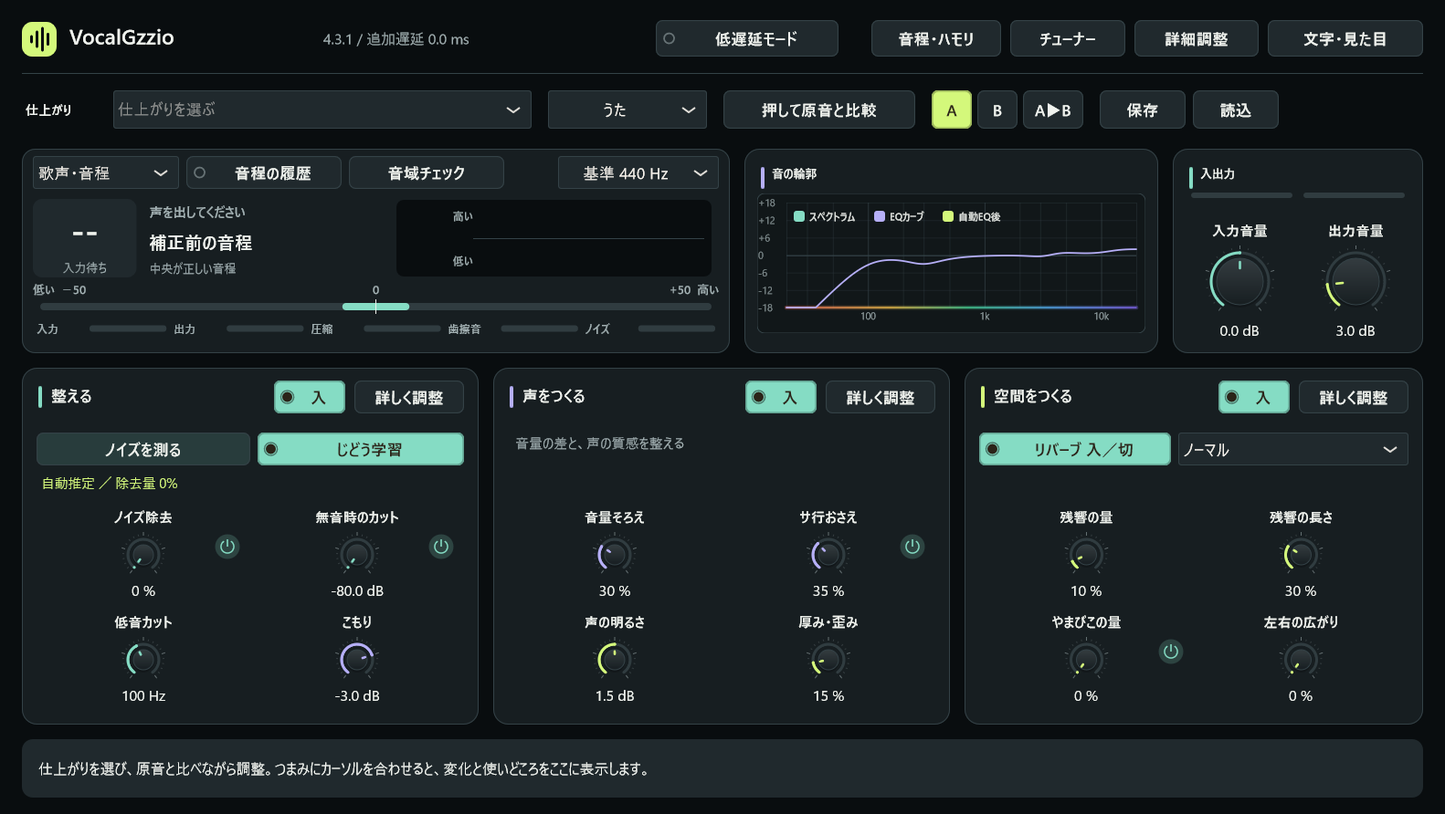
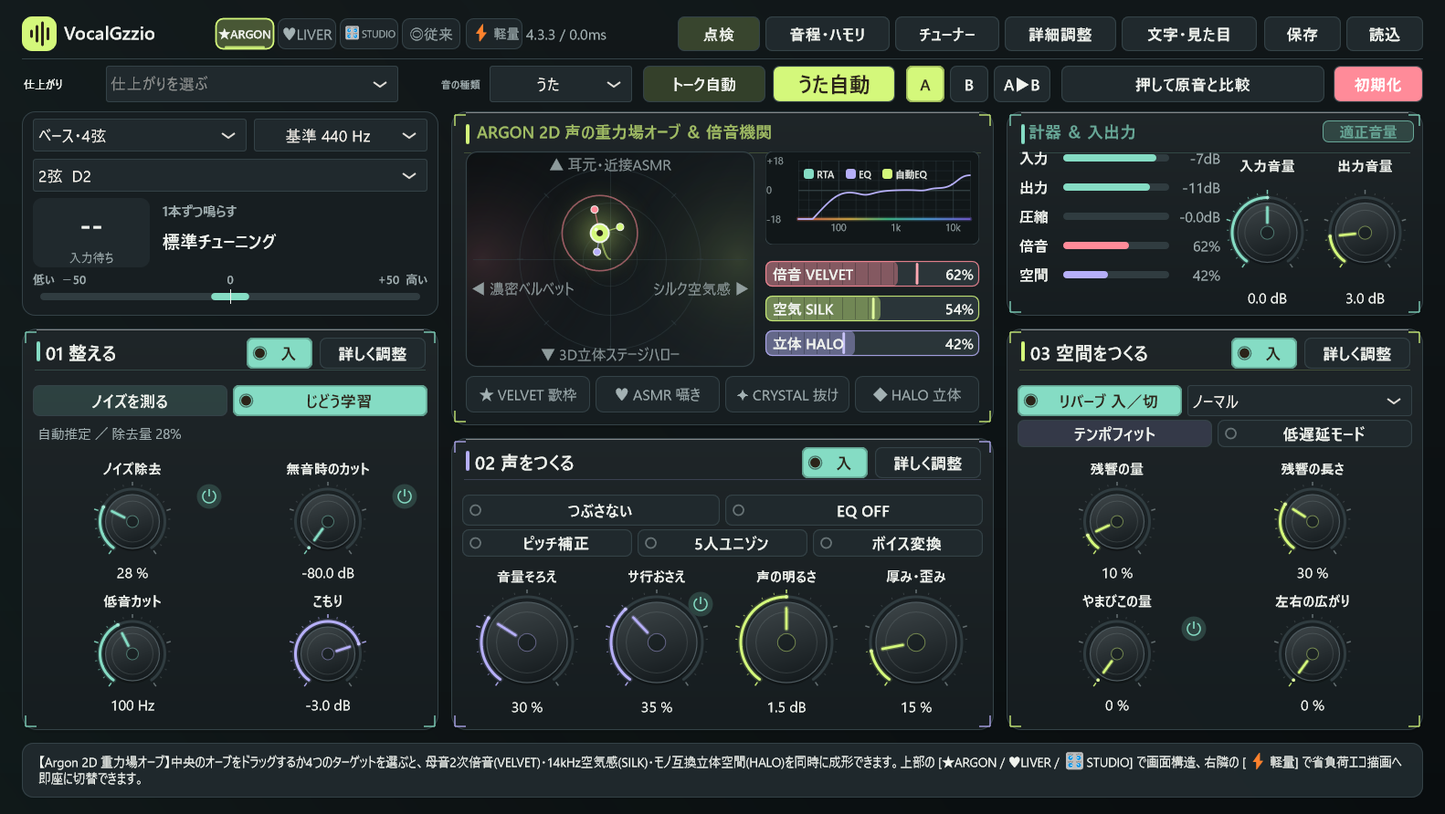
Update VocalGzzio site & manual to v4.4.0 (Gemini4Argon Edition)

diff --git a/apps/vocalgzzio/manual.html b/apps/vocalgzzio/manual.html
@@ -1,13 +1,14 @@
-<!doctype html><html lang="ja"><head><meta charset="utf-8"><meta name="viewport" content="width=device-width,initial-scale=1"><title>VocalGzzio 4.3.1 説明書</title><link rel="stylesheet" href="style.css"></head><body><header><nav><strong>VocalGzzio 4.3.1</strong><a href="https://gzzio1989.github.io/apps/vocalgzzio/">紹介</a><a href="https://gzzio.booth.pm/items/8764003">配布ページ</a></nav></header><main>
-<aside class="note" aria-label="配布状況"><strong>修正版4.3.1の説明書です。</strong><br>Windows版とMac版は同じ製品の購入に含まれ、購入済みの方も両方利用できます。最新の配布ファイル・動作確認状況・価格は<a href="https://gzzio.booth.pm/items/8764003">商品ページ</a>をご確認ください。</aside>
-<h1>音を聴きながら、<br>ひとつずつ決める。</h1><p class="lead">まずは総合画面で仕上がりを選び、必要なところだけ調整します。</p>
-<nav aria-label="目次"><a href="#start">はじめる</a><a href="#noise">ノイズ</a><a href="#pitch">音程</a><a href="#space">残響</a><a href="#install">導入</a></nav>
-<h2 id="start">はじめの調整</h2><ol><li>単体起動では音声機器と入力を選びます。プラグインでは、録音ソフトの音声トラックへ挿します。</li><li>「うた」「アコギだけ」「しゃべり」「声とギター」から入力に合うものを選びます。ギターの音と声が１本のマイクに入る場合は「声とギター」です。</li><li>いちばん強く歌う・弾くところで入力が歪まないよう、音声機器の入力ゲインと画面の入力音量を調整します。録音時点の歪みは後から元に戻せません。</li><li>「仕上がり」から目的の近いものを選びます。選択すると音色・音量の整え方・空間の値が変わります。入力・出力音量、ノイズ学習、音程設定は保持します。</li><li>「押して原音と比較」を押したまま、処理前の音を聴きます。離すと設定した音に戻ります。大きい方を良い音と感じやすいので、輪郭・強弱・余韻も聴き比べます。</li></ol>
+<!doctype html><html lang="ja"><head><meta charset="utf-8"><meta name="viewport" content="width=device-width,initial-scale=1"><title>VocalGzzio 4.4.0 説明書</title><link rel="stylesheet" href="style.css"></head><body><header><nav><strong>VocalGzzio 4.4.0</strong><a href="https://gzzio1989.github.io/apps/vocalgzzio/">紹介</a><a href="https://gzzio.booth.pm/items/8764003">配布ページ</a></nav></header><main>
+<aside class="note" aria-label="配布状況"><strong>最新版 4.4.0（Gemini4Argon Edition）の説明書です。</strong><br>Windows版とMac版は同じ製品の購入に含まれ、購入済みの方も両方利用できます。最新の配布ファイル・動作確認状況・価格は<a href="https://gzzio.booth.pm/items/8764003">商品ページ</a>をご確認ください。</aside>
+<h1>音を聴きながら、<br>ひとつずつ決める。</h1><p class="lead">まずは総合画面で仕上がりや2D声質重力場オーブを触り、必要なところだけ調整します。</p>
+<nav aria-label="目次"><a href="#start">はじめる</a><a href="#argon">2Dオーブと4種の画面構造</a><a href="#noise">ノイズ</a><a href="#pitch">音程</a><a href="#space">残響</a><a href="#install">導入</a></nav>
+<h2 id="start">はじめの調整</h2><ol><li>単体起動では音声機器と入力を選びます。プラグインでは、録音ソフトの音声トラックへ挿します。</li><li>「うた」「アコギだけ」「しゃべり」「声とギター」から入力に合うものを選びます。ギターの音と声が１本のマイクに入る場合は「声とギター」です。</li><li>いちばん強く歌う・弾くところで入力が歪まないよう、音声機器の入力ゲインと画面の入力音量を調整します。録音時点の歪みは後から元に戻せません。</li><li>「仕上がり」から目的の近いものを選ぶか、中央の「Argon 2D 声の重力場オーブ」と4つのワンタッチターゲット（★歌枠・♥ASMR・✦ポップス・◆バラード）から出発します。入力・出力音量、ノイズ学習、音程設定は保持します。</li><li>「押して原音と比較」を押したまま、処理前の音を聴きます。離すと設定した音に戻ります。大きい方を良い音と感じやすいので、輪郭・強弱・余韻も聴き比べます。</li></ol>
+<h2 id="argon">Argon 2D 重力場オーブと4種の画面構造・軽量モード（4.4.0 新機能）</h2><p>総合画面の中央には<strong>「Argon 2D 声の重力場オーブ」</strong>と独自倍音DSP<strong>「Argon Velvet Engine」</strong>を搭載しています。オーブをドラッグすると、横軸で「母音だけに温かみを与える非対称三極管2次倍音（VELVET）⇄ クレスト保護つき14kHzシルク空気感（SILK）」、縦軸で「耳元ASMR近接感 ⇄ スマホのモノラル再生でも位相キャンセリングゼロの3Dバイノーラル・ハロー（HALO）」を同時に連続成形できます（ダブルクリックで0%へリセット）。</p><p>画面上部のピルから、用途に合わせて<strong>4つのワークスペース構造</strong>をワンクリックで切り替えられます：<strong>[★ARGON]</strong>（中央に2DオーブとRTAを据えた3ウイング・コックピット）、<strong>[♥LIVER]</strong>（上段ステージモニター＋下段12連マカロンリボンの配信特化配置）、<strong>[🎛STUDIO]</strong>（左から右へ信号経路が並ぶ5列ハードウェア・ラック）、<strong>[◎従来]</strong>（従来の3カード配置）。さらに右隣の<strong>[⚡軽量]</strong>ボタンを押すと、音声DSPの品質を100%保ったまま4096点FFTスペクトラム・背景パーティクル・半透明ガラス合成を休止し、配信中やノートPCでのGPU/CPU負荷を極小化できます。</p>
 <h2>つまみの使いどころ</h2><table><thead><tr><th>操作</th><th>変化と目安</th></tr></thead><tbody><tr><td>入力音量／出力音量</td><td>処理へ入る量／最終的に出る量。音量そろえとは役割が異なります。</td></tr><tr><td>音量そろえ</td><td>強い声と弱い声の差を縮めます。抑揚が平らになったら下げます。</td></tr><tr><td>こもり／声の明るさ</td><td>低いもこつき／言葉の輪郭が聞こえる帯域を調整します。</td></tr><tr><td>サ行おさえ／耳ざわり</td><td>サ行の鋭さ／耳に当たる共鳴を必要なときに抑えます。入力によって効果の出方は異なります。</td></tr><tr><td>きらめき／厚み・歪み</td><td>高音の輝き／倍音による厚み。上げすぎると鋭さや歪みが増します。</td></tr><tr><td>区画の入／切</td><td>その区画の処理をまとめて切り替えます。「一部」は詳細画面で一部だけ無効にした状態です。</td></tr></tbody></table><p>カーソルを合わせると画面下と吹き出しに説明が出ます。つまみはドラッグやキーボードで調整でき、数値欄から値を入力できます。詳しい処理、従来の声・マイク・音色の補助設定は「詳細調整」から開きます。</p>
 <h2 id="noise">ノイズを減らす</h2><ol><li>マイクを普段の位置に置き、声や楽器を出さずに「ノイズを測る」を押します。</li><li>測定が終わったらノイズ除去が入っていることを確認し、除去量を20〜40％から少しずつ上げて聴き比べます。測定ボタンを押しても除去量は変わりません。0％や処理切では音は変わりません。</li><li>語尾や息が欠ける、声が薄いと感じたら下げます。ノイズと声が同じ帯域にある場合、完全に分けることはできません。</li></ol><p>無音時のカットは、小さい入力を閉じるゲートです。歌っている間のノイズを抑えるノイズ除去とは役割が異なります。使わないときは各入／切ボタンで比較します。声をノイズとして学習した場合は、総合画面の「学習を消す」から消してやり直します。</p>
 <h2 id="pitch">音程補正と楽器のチューナー</h2><p>音程補正とハモリは「音程・ハモリ」から設定します。曲のキーと音階を合わせ、補正量と速さを調整します。無声子音や息を無理に音程へ引き寄せない処理ですが、声質・奏法によって不自然さが残ることがあります。</p><div class="note">音程処理を使うと48kHzで約42.6ミリ秒の追加遅延が生じます。現在の値は画面上部に表示します。低遅延モードは音程系を停止します。音声機器や録音ソフトの遅延は別に発生します。声とギターが混ざった音源の分離補正には対応していません。</div><p>「チューナー」で大きな音程表示を開けます。「ギター調弦」を選び、開放弦を１本ずつ鳴らします。標準調弦は６弦から E2・A2・D3・G3・B3・E4。大きくずれている場合は弦を指定し、表示が中央に来るように合わせます。基準は通常440Hzです。4弦ベースは E1・A1・D2・G2、5弦ベースは B0・E1・A1・D2・G2 に対応します。楽器を選び、ほかの弦を止めて１本ずつ鳴らしてください。針が落ち着くと「安定」、中央に合うと「ぴったり」と表示します。楽器と指定弦は開き直しても引き継ぎます。</p>
 <h2 id="space">リバーブと空間IR</h2><p>リバーブの入／切は独立したボタンです。残響の量は原音に加える響き、残響の長さは余韻を調整します。速い曲では短めにすると次の言葉を邪魔しにくくなります。</p><p>通常のリバーブに加えて、６種類の空間IRを選べます。計算生成した残響データを畳み込む方式で、実在の部屋を録音したものではありません。話し声モードでも、利用者が選んだ残響を使えます。</p>
-<h2>表示・保存・比較</h2><p>「文字・見た目」で文字サイズ、画面サイズ、テーマを変えられます。ブランドテーマは英語です。総合画面を既定とし、詳細画面からいつでも戻れます。AとBに異なる設定を保存して切り替え、「保存」「読込」で設定ファイルも扱えます。新しい仕上がりを選ぶまでは、既存プロジェクトの値を自動的に新プリセットへ置き換えません。</p>
-<h2 id="install">インストールと更新</h2><p>録音ソフトと単体起動アプリを終了してから、配布物のインストーラーを実行します。WindowsではVST3と単体起動を選べます。導入後に録音ソフトのプラグイン一覧を再読み込みしてください。製品版と体験版は名前が異なります。</p><p>Macでは導入用の .pkg、単体起動用の .app、録音ソフト用の .component／.vst3 を使い分けます。部品ファイルを直接起動しないでください。<a href="mac-install.html">Macの導入と起動警告についての案内</a>を用意しています。Appleの開発元署名・公証の有無と確認済み環境は、同梱の配布情報と商品ページでご確認ください。音声機器のドライバーとマイクの使用許可も必要です。</p><p>更新では音質不具合の修正による音の違いが生じます。大事な録音では、更新前のプロジェクトと音を書き出して保管してください。体験版には一定間隔の音量低下があります。</p>
+<h2>表示・保存・比較</h2><p>「文字・見た目」で文字サイズ、画面サイズ、9種類のテーマ、軽量モードを変えられます。ブランドテーマは英語です。総合画面を既定とし、詳細画面からいつでも戻れます。AとBに異なる設定を保存して切り替え、「保存」「読込」で設定ファイルも扱えます。新しい仕上がりを選ぶまでは、既存プロジェクトの値を自動的に新プリセットへ置き換えません。</p>
+<h2 id="install">インストールと更新</h2><p>録音ソフトと単体起動アプリを終了してから、配布物のインストーラーを実行します。WindowsではVST3と単体起動を選べます。導入後に録音ソフトのプラグイン一覧を再読み込みしてください。製品版と体験版は名前が異なります。</p><p>Macでは導入用の .pkg、単体起動用の .app、録音ソフト用の .component／.vst3 を使い分けます。部品ファイルを直接起動しないでください。<a href="https://gzzio1989.github.io/apps/vocalgzzio/mac-install.html">Macの導入と起動警告についての案内</a>を用意しています。Appleの開発者署名・公証の有無と確認済み環境は、同梱の配布情報と商品ページでご確認ください。音声機器のドライバーとマイクの使用許可も必要です。</p><p>更新では音質不具合の修正による音の違いが生じます。大事な録音では、更新前のプロジェクトと音を書き出して保管してください。体験版には一定間隔の音量低下があります。</p>
 <h2>音が変わらないとき</h2><ul><li>処理区画・個別機能が「切」になっていないか確認します。</li><li>低遅延モード中は音程系が停止します。</li><li>詳細画面の原音／処理音の混合が原音だけになっていないか確認します。</li><li>ノイズ除去やサ行おさえなどは、対象の成分がない音では変化が小さくなります。</li><li>処理後の音を聴いているか、音声機器の直接モニターと二重になっていないか確認します。</li></ul>
-</main><footer>VocalGzzio 4.3.1 · <a href="https://gzzio.booth.pm/items/8764003">商品・問い合わせ先</a></footer></body></html>
+</main><footer>VocalGzzio 4.4.0 · <a href="https://gzzio.booth.pm/items/8764003">商品・問い合わせ先</a></footer></body></html>

diff --git a/apps/vocalgzzio/index.html b/apps/vocalgzzio/index.html
@@ -1,14 +1,14 @@
-<!doctype html><html lang="ja"><head><meta charset="utf-8"><meta name="viewport" content="width=device-width,initial-scale=1"><title>VocalGzzio 4.3.1 — 声を整え、演奏に集中する</title><meta name="description" content="歌・配信・アコギの音づくりを見渡せる総合画面。６つの仕上がり、ノイズ除去、ギターチューナー、空間IRリバーブ。"><link rel="stylesheet" href="style.css"></head><body><header><nav><strong>VocalGzzio</strong><a href="manual.html">使い方</a><a href="https://gzzio.booth.pm/items/8764003">製品・体験版</a><a href="https://github.com/gzzio1989/VocalGzzio">開発情報</a></nav></header><main>
-<aside class="note" aria-label="配布状況"><strong>4.3.1を公開しました。2026年10月9日更新。</strong><br>ノイズ学習・画面切替・チューナーを改善。Windows版とMac版を同じ購入にまとめました。購入済みの方は追加購入なしで両方利用できます。<a href="https://gzzio.booth.pm/items/8764003">製品版・無料体験版はこちら</a>。</aside>
-<aside class="note" aria-label="Mac版の起動警告"><strong>Mac版の起動警告について（10月11日追記）</strong><br>現在の4.3.1はAppleの開発元署名・公証が未対応で、導入・読み込みが拒否される場合があります。購入前に体験版でご確認ください。<a href="mac-install.html">開くファイルの違いと、警告が出たときの導入案内</a>を公開しました。</aside>
+<!doctype html><html lang="ja"><head><meta charset="utf-8"><meta name="viewport" content="width=device-width,initial-scale=1"><title>VocalGzzio 4.4.0 — 声を整え、演奏に集中する（Gemini4Argon Edition）</title><meta name="description" content="歌・配信・アコギの音づくりを見渡せる総合画面。Argon 2D声質重力場オーブ、4種のワークスペース構造、⚡軽量モード、６つの仕上がり、ノイズ除去、ギターチューナー、空間IRリバーブ。"><link rel="stylesheet" href="style.css"></head><body><header><nav><strong>VocalGzzio</strong><a href="manual.html">使い方</a><a href="https://gzzio.booth.pm/items/8764003">製品・体験版</a><a href="https://github.com/gzzio1989/VocalGzzio">開発情報</a></nav></header><main>
+<aside class="note" aria-label="配布状況"><strong>4.4.0（Gemini4Argon Edition）を公開しました。2026年10月15日更新。</strong><br>母音だけを狙って倍音を付加する「Argon Velvet Engine」、直感操作の「2D 声の重力場オーブ」、用途で切り替わる「4種の画面構造（ARGON / LIVER / STUDIO / 従来）」、ワンクリック省負荷「⚡軽量モード」を搭載。Windows版とMac版を同じ購入にまとめました。<a href="https://gzzio.booth.pm/items/8764003">製品版・無料体験版はこちら</a>。</aside>
+<aside class="note" aria-label="Mac版の起動警告"><strong>Mac版の起動警告について</strong><br>現在の4.4.0はAppleの開発元署名・公証が未対応で、導入・読み込みが拒否される場合があります。購入前に体験版でご確認ください。<a href="mac-install.html">開くファイルの違いと、警告が出たときの導入案内</a>を公開しています。</aside>
 
-<p class="eyebrow">VocalGzzio 4.3.1 · Windows + Mac</p><h1>声をつくる。<br>演奏に集中する。</h1><p class="lead">小さなつまみを探す時間から、音を聴く時間へ。<br>入力、声の質感、残響。全体を見渡しながら、欲しい仕上がりに近づける。</p>
+<p class="eyebrow">VocalGzzio 4.4.0 · Windows + Mac · Gemini4Argon Edition</p><h1>声をつくる。<br>演奏に集中する。</h1><p class="lead">小さなつまみを探す時間から、音を聴く時間へ。<br>2D声質重力場オーブ、入力、声の質感、残響。全体を見渡しながら、欲しい仕上がりに近づける。</p>
 <div class="actions"><a class="button" href="https://gzzio.booth.pm/items/8764003">製品・体験版を見る</a><a class="button secondary" href="manual.html">新しい画面の使い方</a></div>
-<img src="assets/overview.png" width="1582" height="892" alt="入力と出力、音程、整える・声をつくる・空間をつくるの操作を並べたVocalGzzioの総合画面">
-<div class="grid"><section class="card"><h3>選ぶ理由のある６つの音</h3><p>自然に整える、歌詞を前へ、丸く親密に。音色・強弱・余韻をまとめて変える「仕上がり」から出発します。</p></section><section class="card"><h3>変化を、その場で確かめる</h3><p>押している間だけ原音と比較。リバーブも独立して入／切できます。効果と使いどころを画面下に表示します。</p></section><section class="card"><h3>弾く人にも、読みやすく</h3><p>標準６弦ギター・４弦／５弦ベースのチューナーと大きな音程表示。文字と画面の大きさを調整でき、ブランド表示では英語にも切り替わります。</p></section></div>
+<img src="assets/overview.png" width="1582" height="892" alt="入力と出力、音程、2D声質重力場オーブ、整える・声をつくる・空間をつくるの操作を並べたVocalGzzioの総合画面">
+<div class="grid"><section class="card"><h3>Argon 2D 声の重力場オーブ</h3><p>サ行を一切ザラつかせずに母音へ2次倍音を加えるVELVET、クレスト保護14kHzシルクエア、モノラル完全互換の3Dバイノーラル・ハローを1つの2Dオーブで同時成形します。</p></section><section class="card"><h3>4種の画面構造 ＆ ⚡軽量モード</h3><p>用途に合わせて [★ARGON] [♥LIVER] [🎛STUDIO] [◎従来] の4配置に即切替。[⚡軽量] を押せば音声DSP品質は100%そのままにGPU/CPU描画負荷を極小化します。</p></section><section class="card"><h3>弾く人にも、読みやすく</h3><p>標準６弦ギター・４弦／５弦ベースのチューナーと大きな音程表示。文字と画面の大きさを調整でき、9種のテーマとブランド英語表示にも対応します。</p></section></div>
 <h2>音の土台から、余韻まで。</h2><p>ノイズ学習とノイズ除去、音量のばらつき、耳に当たる高音、声の明るさ。必要なところを整え、空間IRや通常のリバーブで余韻を足します。より細かな設定は詳細画面から操作できます。</p>
 <table><thead><tr><th>仕上がり</th><th>狙う変化</th></tr></thead><tbody><tr><td>自然に整える</td><td>抑揚を残し、軽く整える</td></tr><tr><td>歌詞を前へ</td><td>こもりを引き、言葉の輪郭を出す</td></tr><tr><td>丸く親密に</td><td>硬い高音を丸く、近い響きへ</td></tr><tr><td>太く力強く</td><td>強弱をそろえ、密度と軽い歪みを加える</td></tr><tr><td>語りをくっきり</td><td>残響を切り、言葉を近く届ける</td></tr><tr><td>広く響かせる</td><td>長い余韻と薄いやまびこを足す</td></tr></tbody></table>
 <h2>使う前に知っておきたいこと</h2><div class="note">音程補正・ハモリは単独の歌声など、音程が１つの音源向けです。声とギターが混ざった入力を分離して補正する機能ではありません。音程処理には48kHzで約42.6ミリ秒の追加遅延があり、低遅延モードでは音程系を停止します。</div>
 <p>空間IRは計算生成した残響データです。実在の部屋の録音ではありません。ノイズ除去や補正の適量は音源によって変わります。まず体験版で、ご自身の声や機材との相性をお確かめください。</p>
-<h2>配布と対応環境</h2><p>Windows 10 / 11の64ビット版で、VST3と単体起動アプリを利用できます。Mac版はmacOS 11以降、Appleシリコン／Intel両対応で、VST3・AU・単体起動アプリとインストーラーを同梱しています。Windows・Macとも自動検査50項目に合格しています。Mac実機でのインストール・マイク入力・録音ソフトでの試奏は未確認です。Mac版のApple開発者署名・公証、Windowsインストーラーの電子署名は未付与です。購入前に体験版で相性をご確認ください。</p><p>製品版はBOOTHの購入履歴から取得できます。体験版は60秒ごとに0.6秒間音量が下がり、設定・プリセットの保存と復元が制限されます。既存の価格・販売条件は商品ページをご確認ください。</p>
+<h2>配布と対応環境</h2><p>Windows 10 / 11の64ビット版で、VST3と単体起動アプリを利用できます。Mac版はmacOS 11以降、Appleシリコン／Intel両対応で、VST3・AU・単体起動アプリとインストーラーを同梱しています。Windows・Macとも自動検査51項目に合格しています。Mac実機でのインストール・マイク入力・録音ソフトでの試奏は未確認です。Mac版のApple開発者署名・公証、Windowsインストーラーの電子署名は未付与です。購入前に体験版で相性をご確認ください。</p><p>製品版はBOOTHの購入履歴から取得できます。体験版は60秒ごとに0.6秒間音量が下がり、設定・プリセットの保存と復元が制限されます。既存の価格・販売条件は商品ページをご確認ください。</p>
 </main><footer>© G’zzio · <a href="manual.html">説明書</a> · <a href="https://gzzio.booth.pm/items/8764003">BOOTH</a></footer></body></html>

diff --git a/apps/vocalgzzio/mac-install.html b/apps/vocalgzzio/mac-install.html
@@ -14,12 +14,12 @@
 <a class="skip" href="#content">本文へ進む</a>
 <header><nav aria-label="主なページ"><strong>VocalGzzio</strong><a href="https://gzzio1989.github.io/apps/vocalgzzio/">製品紹介</a><a href="manual.html">使い方</a><a href="https://gzzio.booth.pm/items/8764003">配布・お問い合わせ</a></nav></header>
 <main id="content">
-  <p class="eyebrow">Macへの導入ガイド · 2026年10月11日更新</p>
+  <p class="eyebrow">Macへの導入ガイド · 2026年10月15日更新</p>
   <h1>使う場所に合わせて、<br>開くファイルを選びます。</h1>
   <p class="lead"><code>.component</code> はLogic Proなどが読み込む部品です。Finderで直接起動するアプリではありません。導入には <code>.pkg</code>、単体で使うときは導入済みの <code>.app</code> を開きます。</p>
 
   <aside class="note status" aria-label="現在のMac版の対応状況">
-    <strong>Mac版4.3.1の起動警告に対応中です。</strong>
+    <strong>Mac版4.4.0の起動警告に対応中です。</strong>
     <p>現在の配布物はAppleの開発元証明書による署名・公証を受けていません。Macの保護機能によって導入や読み込みが拒否される場合があります。下の手順で開く対象を直しても、警告が解消するとは限りません。</p>
     <p>Mac実機での導入・マイク入力・Logic Proでの試奏も未確認です。<strong>Macでの利用を目的に購入する前に、無料体験版で導入から音声処理までお確かめください。</strong>購入済みの方は、同じ購入履歴からWindows版・Mac版の両方を追加料金なしで取得できます。</p>
   </aside>
@@ -28,7 +28,7 @@
 
   <h2 id="files">まず、この３つを見分けます。</h2>
   <div class="grid file-cards">
-    <section class="card"><span class="file-kind">.pkg</span><h3>Macに導入する</h3><p>プラグインと単体アプリを、使う場所へ配置するインストーラーです。</p><p class="detail">4.3.1では、名前が「未公証.pkg」で終わるファイルを使います。</p></section>
+    <section class="card"><span class="file-kind">.pkg</span><h3>Macに導入する</h3><p>プラグインと単体アプリを、使う場所へ配置するインストーラーです。</p><p class="detail">4.4.0では、名前が「未公証.pkg」で終わるファイルを使います。</p></section>
     <section class="card"><span class="file-kind">.app</span><h3>単体で起動する</h3><p>録音ソフトを使わずにVocalGzzioを開くアプリです。</p><p class="detail">導入後、「アプリケーション」にあるVocalGzzioを開きます。</p></section>
     <section class="card"><span class="file-kind">.component</span><h3>Logic Proなどで使う</h3><p>AU形式のプラグインです。導入後、録音ソフトの中で選んで読み込みます。</p><p class="detail">このファイル自体をダブルクリックして起動しません。</p></section>
   </div>
@@ -85,6 +85,6 @@
   <p class="small">体験版は60秒ごとに0.6秒間音量が下がり、設定・プリセットの保存と復元が制限されます。製品版とは別の名前で導入されます。版番号は同梱の「配布情報.json」でも確認できます。</p>
   <div class="actions"><a class="button" href="https://gzzio.booth.pm/items/8764003">配布・お問い合わせ</a><a class="button secondary" href="manual.html">音づくりの使い方へ</a></div>
 </main>
-<footer>VocalGzzio 4.3.1 · Mac導入案内 · <a href="https://gzzio1989.github.io/apps/vocalgzzio/">製品紹介</a></footer>
+<footer>VocalGzzio 4.4.0 · Mac導入案内 · <a href="https://gzzio1989.github.io/apps/vocalgzzio/">製品紹介</a></footer>
 </body>
 </html>
